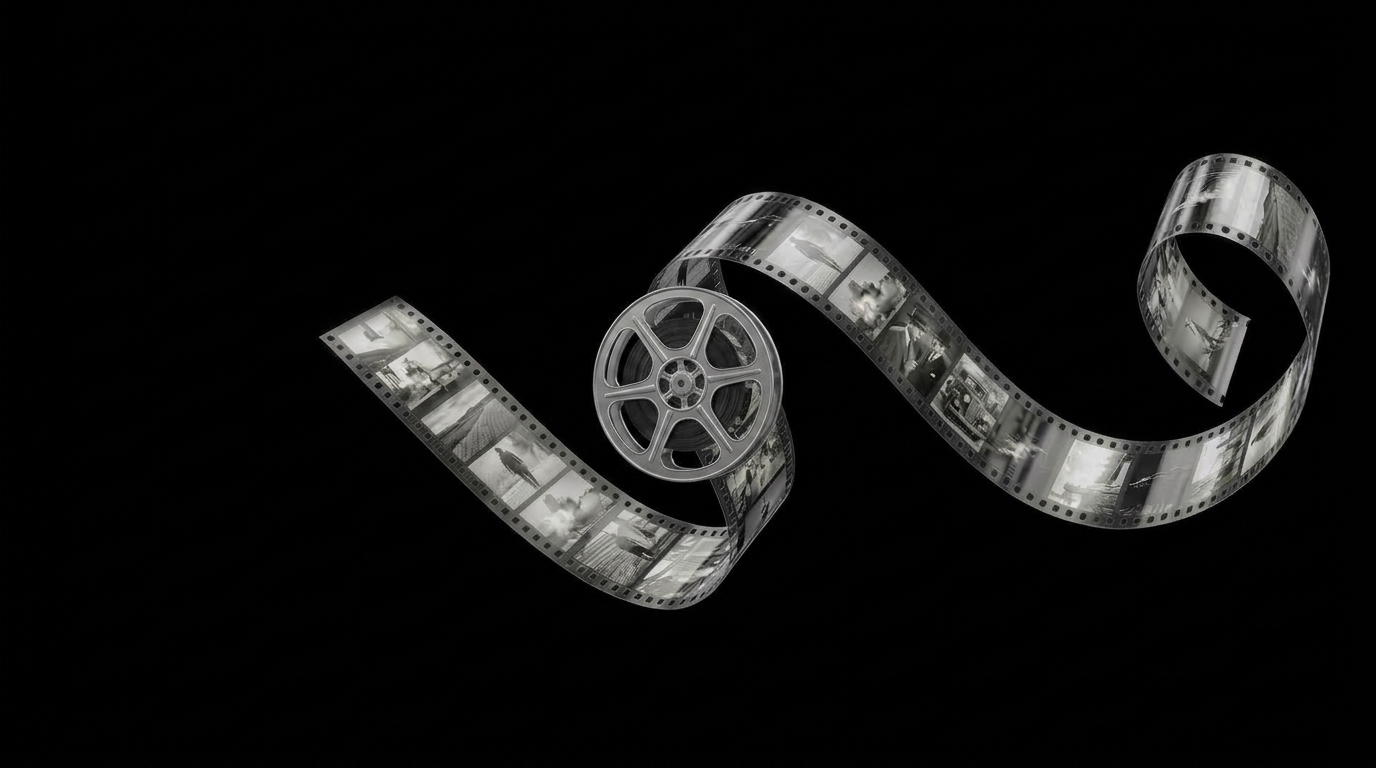
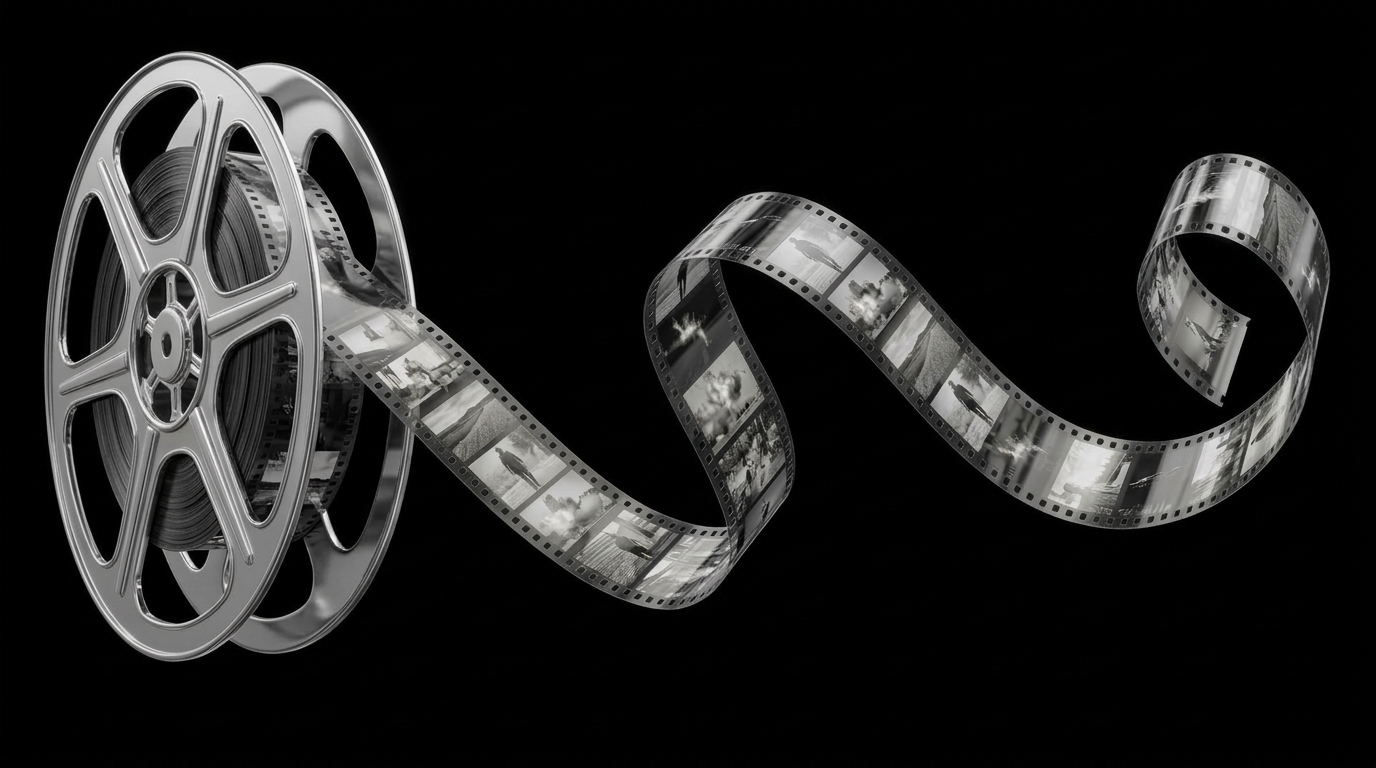
feat: update background and form styles in Login and Register pages

diff --git a/frontend/src/pages/Login.vue b/frontend/src/pages/Login.vue
@@ -1,19 +1,19 @@
 <template>
   <div class="min-h-screen flex items-center justify-center bg-[#050505] p-4 relative select-none overflow-hidden">
-    <!-- 3D Cinema Film Reel & Strip Full PC Screen Background -->
-    <div class="fixed inset-0 w-full h-full pointer-events-none overflow-hidden flex items-center justify-center z-0">
+    <!-- 3D Cinema Film Reel & Strip Background Backdrop (Full Width) -->
+    <div class="fixed inset-0 w-full h-full pointer-events-none overflow-hidden flex items-center z-0">
       <img 
-        src="/cinema-film-reel.jpg" 
+        src="/cinema-film-reel.jpg?v=5" 
         alt="Cinema Film Reel" 
-        class="w-full h-full object-cover opacity-45 mix-blend-screen pointer-events-none select-none"
+        class="w-full h-auto opacity-45 mix-blend-screen pointer-events-none select-none"
       />
     </div>
 
     <!-- Ambient Glowing Backdrop Effect -->
     <div class="fixed w-[600px] h-[400px] bg-[#ef6a26]/15 rounded-full blur-[140px] pointer-events-none top-1/2 left-1/2 -translate-x-1/2 -translate-y-1/2 z-0"></div>
 
-    <!-- Transparent Form Card Container -->
-    <div class="relative z-10 bg-transparent border border-white/10 hover:border-[#ef6a26]/40 transition-colors duration-500 p-6 sm:p-7 rounded-3xl w-full max-w-md shadow-none backdrop-blur-none">
+    <!-- Glassy Form Card Container -->
+    <div class="relative z-10 bg-black/10 backdrop-blur-sm border border-white/8 hover:border-[#ef6a26]/30 transition-all duration-500 p-6 sm:p-7 rounded-3xl w-full max-w-md">
       
       <!-- Brand Logo Header -->
       <div class="flex flex-col items-center mb-5">

diff --git a/frontend/src/pages/Register.vue b/frontend/src/pages/Register.vue
@@ -1,19 +1,19 @@
 <template>
   <div class="min-h-screen flex items-center justify-center bg-[#050505] p-4 relative select-none overflow-hidden">
-    <!-- 3D Cinema Film Reel & Strip Full PC Screen Background -->
-    <div class="fixed inset-0 w-full h-full pointer-events-none overflow-hidden flex items-center justify-center z-0">
+    <!-- 3D Cinema Film Reel & Strip Background Backdrop (Full Width) -->
+    <div class="fixed inset-0 w-full h-full pointer-events-none overflow-hidden flex items-center z-0">
       <img 
-        src="/cinema-film-reel.jpg" 
+        src="/cinema-film-reel.jpg?v=5" 
         alt="Cinema Film Reel" 
-        class="w-full h-full object-cover opacity-45 mix-blend-screen pointer-events-none select-none"
+        class="w-full h-auto opacity-45 mix-blend-screen pointer-events-none select-none"
       />
     </div>
 
     <!-- Ambient Glowing Backdrop Effect -->
     <div class="fixed w-[600px] h-[400px] bg-[#ef6a26]/15 rounded-full blur-[140px] pointer-events-none top-1/2 left-1/2 -translate-x-1/2 -translate-y-1/2 z-0"></div>
 
-    <!-- Transparent Form Card Container -->
-    <div class="relative z-10 bg-transparent border border-white/10 hover:border-[#ef6a26]/40 transition-colors duration-500 p-6 sm:p-7 rounded-3xl w-full max-w-md shadow-none backdrop-blur-none">
+    <!-- Glassy Form Card Container -->
+    <div class="relative z-10 bg-black/10 backdrop-blur-sm border border-white/8 hover:border-[#ef6a26]/30 transition-all duration-500 p-6 sm:p-7 rounded-3xl w-full max-w-md">
       
       <!-- Brand Logo Header -->
       <div class="flex flex-col items-center mb-5">
